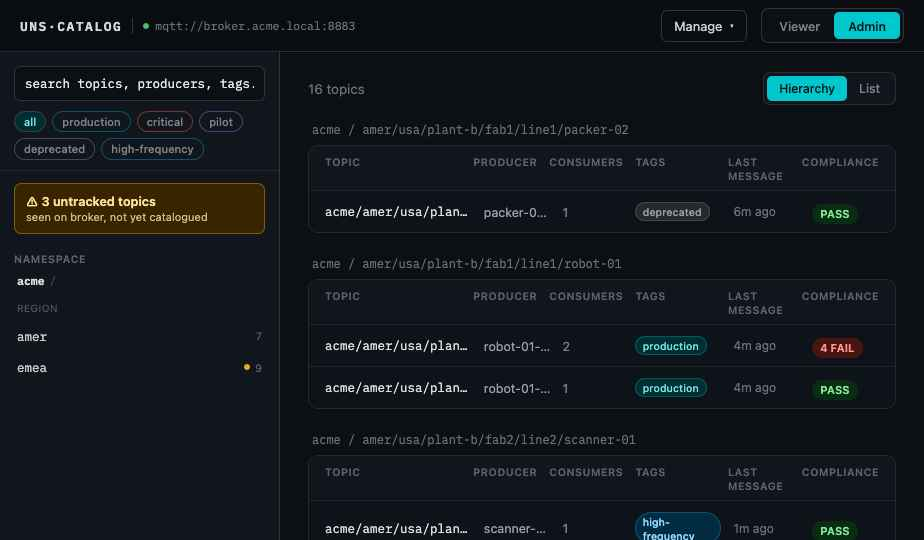
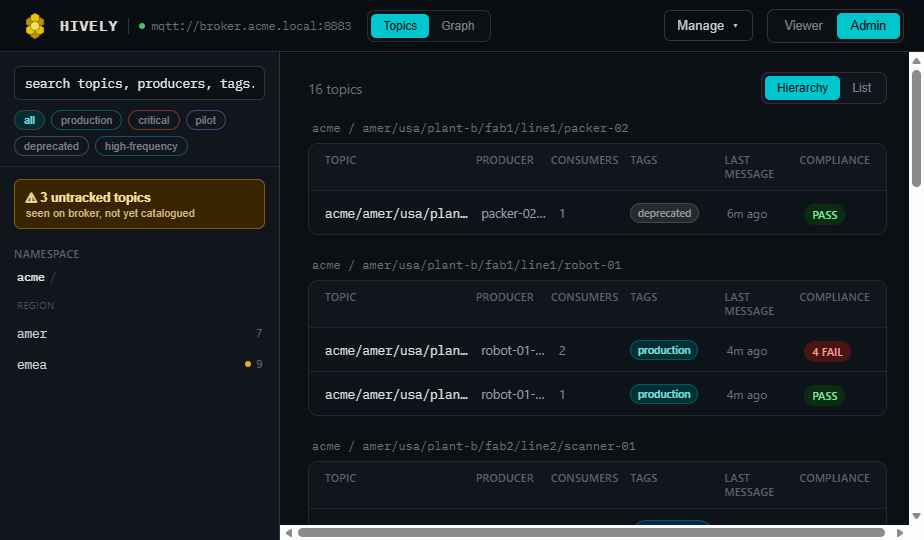
Updated design files

diff --git a/Design/MQTT Data Catalog.dc.html b/Design/MQTT Data Catalog.dc.html
@@ -28,11 +28,24 @@
   <!-- TOP BAR -->
   <div style="height:52px; min-height:52px; display:flex; align-items:center; gap:14px; padding:0 20px; background:oklch(0.155 0.012 254); border-bottom:1px solid oklch(0.3 0.02 254);">
     <div style="display:flex; align-items:center; gap:10px;">
-      <div style="font-family:'IBM Plex Mono',monospace; font-size:13px; font-weight:600; letter-spacing:1.5px; color:oklch(0.88 0.008 254);">UNS·CATALOG</div>
+      <svg viewBox="0 0 100 100" width="30" height="30" style="flex-shrink:0;">
+        <polygon points="65.59,20.00 79.88,28.25 79.88,44.75 65.59,53.00 51.30,44.75 51.30,28.25" fill="oklch(0.68 0.14 85)" stroke="oklch(0.32 0.05 90)" stroke-width="1.2"></polygon>
+        <polygon points="34.41,20.00 48.70,28.25 48.70,44.75 34.41,53.00 20.12,44.75 20.12,28.25" fill="oklch(0.68 0.14 85)" stroke="oklch(0.32 0.05 90)" stroke-width="1.2"></polygon>
+        <polygon points="50.00,60.50 64.29,68.75 64.29,85.25 50.00,93.50 35.71,85.25 35.71,68.75" fill="oklch(0.68 0.14 85)" stroke="oklch(0.32 0.05 90)" stroke-width="1.2"></polygon>
+        <polygon points="50.00,6.50 64.29,14.75 64.29,31.25 50.00,39.50 35.71,31.25 35.71,14.75" fill="oklch(0.83 0.17 95)" stroke="oklch(0.32 0.05 90)" stroke-width="1.2"></polygon>
+        <polygon points="34.41,47.00 48.70,55.25 48.70,71.75 34.41,80.00 20.12,71.75 20.12,55.25" fill="oklch(0.83 0.17 95)" stroke="oklch(0.32 0.05 90)" stroke-width="1.2"></polygon>
+        <polygon points="65.59,47.00 79.88,55.25 79.88,71.75 65.59,80.00 51.30,71.75 51.30,55.25" fill="oklch(0.83 0.17 95)" stroke="oklch(0.32 0.05 90)" stroke-width="1.2"></polygon>
+        <polygon points="50.00,33.50 64.29,41.75 64.29,58.25 50.00,66.50 35.71,58.25 35.71,41.75" fill="oklch(0.9 0.15 98)" stroke="oklch(0.32 0.05 90)" stroke-width="1.2"></polygon>
+      </svg>
+      <div style="font-family:'IBM Plex Mono',monospace; font-size:14.5px; font-weight:600; letter-spacing:1px; color:oklch(0.9 0.01 90);">HIVELY</div>
       <div style="width:1px; height:16px; background:oklch(0.32 0.02 254);"></div>
       <div style="display:flex; align-items:center; gap:6px;">
         <span style="width:6px; height:6px; border-radius:50%; background:oklch(0.72 0.16 150);"></span>
         <span style="font-family:'IBM Plex Mono',monospace; font-size:11.5px; color:oklch(0.55 0.012 254);">mqtt://broker.acme.local:8883</span>
+      </div>
+      <div style="display:flex; background:oklch(0.17 0.014 254); border:1px solid oklch(0.3 0.02 254); border-radius:7px; padding:3px; margin-left:6px;">
+        <button onClick="{{ setViewCatalog }}" style="border:none; cursor:pointer; font-size:12px; font-weight:500; padding:5px 12px; border-radius:5px; background:{{ viewCatalogBg }}; color:{{ viewCatalogColor }};">Topics</button>
+        <button onClick="{{ setViewGraph }}" style="border:none; cursor:pointer; font-size:12px; font-weight:500; padding:5px 12px; border-radius:5px; background:{{ viewGraphBg }}; color:{{ viewGraphColor }};">Graph</button>
       </div>
     </div>
     <div style="flex:1;"></div>
@@ -61,6 +74,7 @@
   </div>
 
   <!-- BODY -->
+  <sc-if value="{{ showCatalogBody }}" hint-placeholder-val="{{ true }}">
   <div style="flex:1; display:flex; min-height:0;">
 
     <!-- SIDEBAR -->
@@ -350,6 +364,73 @@
       </sc-if>
     </div>
   </div>
+  </sc-if>
+
+  <!-- GRAPH VIEW -->
+  <sc-if value="{{ showGraph }}" hint-placeholder-val="{{ false }}">
+    <div style="flex:1; display:flex; flex-direction:column; gap:14px; padding:20px 28px 28px 28px; min-height:0; overflow-y:auto;">
+      <div style="display:flex; align-items:center; gap:10px; flex-wrap:wrap;">
+        <input value="{{ graphCombo.search }}" onChange="{{ graphCombo.onSearchChange }}" placeholder="search a producer, consumer, or topic..." style="flex:1; min-width:280px; background:oklch(0.17 0.014 254); border:1px solid oklch(0.32 0.02 254); border-radius:6px; padding:9px 11px; color:oklch(0.93 0.006 254); font-size:12.5px; font-family:'IBM Plex Mono',monospace; outline:none;" />
+        <sc-if value="{{ graphHasHistory }}">
+          <button onClick="{{ graphBack }}" style="background:none; border:1px solid oklch(0.36 0.02 254); color:oklch(0.8 0.008 254); font-size:12.5px; padding:8px 13px; border-radius:6px; cursor:pointer; white-space:nowrap;">← back</button>
+        </sc-if>
+        <sc-if value="{{ graphHasFocal }}">
+          <button onClick="{{ graphClear }}" style="background:none; border:1px solid oklch(0.36 0.02 254); color:oklch(0.8 0.008 254); font-size:12.5px; padding:8px 13px; border-radius:6px; cursor:pointer; white-space:nowrap;">clear</button>
+        </sc-if>
+      </div>
+
+      <sc-if value="{{ graphCombo.showResults }}">
+        <div style="display:flex; flex-direction:column; gap:2px; max-height:240px; overflow-y:auto; border:1px solid oklch(0.3 0.02 254); border-radius:8px; padding:6px; background:oklch(0.20 0.015 254);">
+          <sc-for list="{{ graphCombo.options }}" as="opt" hint-placeholder-count="4">
+            <button onClick="{{ opt.onClick }}" style="all:unset; box-sizing:border-box; cursor:pointer; display:flex; align-items:center; gap:9px; padding:7px 10px; border-radius:5px;">
+              <span style="width:8px; height:8px; border-radius:50%; background:{{ opt.dotColor }}; flex-shrink:0;"></span>
+              <span style="font-size:12.5px; color:oklch(0.9 0.006 254); font-family:'IBM Plex Mono',monospace; overflow:hidden; text-overflow:ellipsis; white-space:nowrap;">{{ opt.label }}</span>
+              <span style="font-size:10px; color:oklch(0.5 0.012 254); margin-left:auto; text-transform:uppercase; letter-spacing:0.4px; flex-shrink:0;">{{ opt.typeLabel }}</span>
+            </button>
+          </sc-for>
+          <sc-if value="{{ graphCombo.noMatches }}">
+            <div style="font-size:11.5px; color:oklch(0.5 0.012 254); font-style:italic; padding:7px 10px;">no matches</div>
+          </sc-if>
+        </div>
+      </sc-if>
+
+      <sc-if value="{{ graphHasFocal }}" hint-placeholder-val="{{ false }}">
+        <div style="display:flex; align-items:center; gap:8px; font-size:12px; color:oklch(0.55 0.012 254); font-family:'IBM Plex Mono',monospace;">
+          <span style="width:8px; height:8px; border-radius:50%; background:{{ graph.focalDotColor }};"></span>
+          centered on <span style="color:oklch(0.9 0.006 254); font-weight:600;">{{ graph.focalLabel }}</span> ({{ graph.focalType }})
+        </div>
+        <div style="background:oklch(0.20 0.015 254); border:1px solid oklch(0.28 0.018 254); border-radius:12px; padding:10px; flex:1; display:flex; align-items:center; justify-content:center; min-height:0; overflow:auto; position:relative;">
+          <div style="position:absolute; top:12px; right:12px; z-index:2; display:flex; align-items:center; gap:4px; background:oklch(0.17 0.014 254); border:1px solid oklch(0.3 0.02 254); border-radius:7px; padding:3px;">
+            <button onClick="{{ zoomOut }}" style="width:26px; height:26px; border:none; background:none; color:oklch(0.85 0.008 254); font-size:15px; cursor:pointer; border-radius:5px;">−</button>
+            <button onClick="{{ zoomReset }}" style="min-width:42px; border:none; background:none; color:oklch(0.6 0.012 254); font-size:11px; font-family:'IBM Plex Mono',monospace; cursor:pointer; padding:4px 2px; border-radius:5px;">{{ graphZoomPct }}</button>
+            <button onClick="{{ zoomIn }}" style="width:26px; height:26px; border:none; background:none; color:oklch(0.85 0.008 254); font-size:15px; cursor:pointer; border-radius:5px;">+</button>
+          </div>
+          <div style="position:relative; height:100%; width:auto; max-width:100%; aspect-ratio:900/560; transform:scale({{ graphZoom }}); transform-origin:center center; flex-shrink:0;">
+            <svg viewBox="0 0 900 560" style="position:absolute; inset:0; width:100%; height:100%; display:block;">
+              <sc-for list="{{ graph.edges }}" as="edge" hint-placeholder-count="4">
+                <line x1="{{ edge.x1 }}" y1="{{ edge.y1 }}" x2="{{ edge.x2 }}" y2="{{ edge.y2 }}" stroke="{{ edge.stroke }}" stroke-width="1.4" stroke-opacity="{{ edge.opacity }}"></line>
+              </sc-for>
+              <sc-for list="{{ graph.nodes }}" as="node" hint-placeholder-count="6">
+                <circle onClick="{{ node.onClick }}" style="cursor:{{ node.cursor }};" cx="{{ node.x }}" cy="{{ node.y }}" r="{{ node.r }}" fill="{{ node.fill }}" stroke="{{ node.stroke }}" stroke-width="{{ node.strokeWidth }}"></circle>
+              </sc-for>
+            </svg>
+            <sc-for list="{{ graph.nodes }}" as="node" hint-placeholder-count="6">
+              <div title="{{ node.fullLabel }}" onClick="{{ node.onClick }}" style="position:absolute; left:{{ node.xPct }}; top:{{ node.labelYPct }}; transform:{{ node.labelTransform }}; font-family:'IBM Plex Mono',monospace; font-size:{{ node.fontSize }}px; color:{{ node.textColor }}; cursor:{{ node.cursor }}; white-space:nowrap; pointer-events:auto;">{{ node.shortLabel }}</div>
+            </sc-for>
+          </div>
+        </div>
+        <div style="display:flex; gap:18px; font-size:11.5px; color:oklch(0.55 0.012 254);">
+          <div style="display:flex; align-items:center; gap:6px;"><span style="width:9px; height:9px; border-radius:50%; background:oklch(0.78 0.15 200);"></span>producer</div>
+          <div style="display:flex; align-items:center; gap:6px;"><span style="width:9px; height:9px; border-radius:50%; background:oklch(0.78 0.14 80);"></span>topic</div>
+          <div style="display:flex; align-items:center; gap:6px;"><span style="width:9px; height:9px; border-radius:50%; background:oklch(0.75 0.17 330);"></span>consumer</div>
+          <div style="margin-left:auto; color:oklch(0.48 0.012 254);">click any node to re-center the graph on it</div>
+        </div>
+      </sc-if>
+      <sc-if value="{{ graphNoFocal }}" hint-placeholder-val="{{ true }}">
+        <div style="flex:1; display:flex; align-items:center; justify-content:center; color:oklch(0.5 0.012 254); font-size:13.5px; text-align:center;">Search for a producer, consumer, or topic above to see its connections.</div>
+      </sc-if>
+    </div>
+  </sc-if>
 
   <!-- CONFIGURE MODAL -->
   <sc-if value="{{ configureOpen }}">
@@ -928,8 +1009,14 @@ class Component extends DCLogic {
     pickerSearch: {
       configureProducer: '', configureSchema: '', configureConsumer: '',
       schemaAssign: '', producerAssign: '', consumerAssign: '', ruleProducer: '',
+      graphFocal: '',
     },
     folderPath: [],
+    view: 'catalog', // 'catalog' | 'graph'
+    graphFocalType: null, // 'producer' | 'consumer' | 'topic'
+    graphFocalId: null,
+    graphHistory: [],
+    graphZoom: 1,
     topics: RAW_TOPICS.map(t => ({ ...t, id: t.seg.join('/') })),
   };
 
@@ -1040,8 +1127,114 @@ class Component extends DCLogic {
     };
   }
 
+  graphNodeStyle(type) {
+    if (type === 'producer') return { fill: 'oklch(0.28 0.09 200)', stroke: 'oklch(0.78 0.15 200)', textColor: 'oklch(0.88 0.04 200)' };
+    if (type === 'consumer') return { fill: 'oklch(0.28 0.1 330)', stroke: 'oklch(0.75 0.17 330)', textColor: 'oklch(0.88 0.05 330)' };
+    return { fill: 'oklch(0.32 0.09 80)', stroke: 'oklch(0.78 0.14 80)', textColor: 'oklch(0.9 0.03 80)' };
+  }
+
+  graphEntityLabel(type, id) {
+    if (type === 'producer') return this.producerName(id) || id || 'unknown';
+    if (type === 'consumer') { const c = this.state.consumers.find(x => x.id === id); return c ? c.name : id; }
+    const t = this.state.topics.find(x => x.id === id);
+    return t ? t.seg[t.seg.length - 1] : id;
+  }
+
+  truncateLabel(s, n) {
+    if (!s) return s;
+    return s.length > n ? s.slice(0, n - 1) + '…' : s;
+  }
+
+  setGraphFocal(type, id) {
+    this.setState(s => {
+      const hist = (s.graphFocalType && s.graphFocalId && (s.graphFocalType !== type || s.graphFocalId !== id))
+        ? [...s.graphHistory, { type: s.graphFocalType, id: s.graphFocalId }] : s.graphHistory;
+      return { graphFocalType: type, graphFocalId: id, graphHistory: hist, pickerSearch: { ...s.pickerSearch, graphFocal: '' } };
+    });
+  }
+
+  graphBack() {
+    this.setState(s => {
+      const hist = [...s.graphHistory];
+      const prev = hist.pop();
+      return prev ? { graphFocalType: prev.type, graphFocalId: prev.id, graphHistory: hist } : { graphFocalType: null, graphFocalId: null, graphHistory: [] };
+    });
+  }
+
+  zoomGraph(delta) {
+    this.setState(s => ({ graphZoom: Math.max(0.5, Math.min(3, +(s.graphZoom + delta).toFixed(2))) }));
+  }
+
+  computeGraph() {
+    const { graphFocalType: type, graphFocalId: id, topics } = this.state;
+    if (!type || !id) return null;
+    const W = 900, H = 560, cx = W / 2, cy = H / 2, R1 = 165, R2 = 255;
+    const nodes = [];
+    const edges = [];
+    const mk = (key, x, y, r, nodeType, label, onClick, isFocal) => {
+      const st = this.graphNodeStyle(nodeType);
+      const labelAbove = y > cy;
+      const labelY = labelAbove ? y - r - 15 : y + r + 15;
+      return {
+        key, x, y, r, fill: st.fill, stroke: st.stroke, strokeWidth: isFocal ? 2.5 : 1.5,
+        textColor: st.textColor, fontSize: isFocal ? 13 : 11.5,
+        label, fullLabel: label, shortLabel: this.truncateLabel(label, isFocal ? 20 : 14),
+        labelY, labelTransform: labelAbove ? 'translate(-50%, -100%)' : 'translate(-50%, 0)',
+        onClick: onClick || null, cursor: onClick ? 'pointer' : 'default',
+        xPct: (x / W * 100) + '%', labelYPct: (labelY / H * 100) + '%',
+      };
+    };
+
+    nodes.push(mk('focal', cx, cy, 28, type, this.graphEntityLabel(type, id), null, true));
+
+    if (type === 'topic') {
+      const t = topics.find(x => x.id === id);
+      if (!t) return null;
+      if (t.producer) {
+        const x = cx - R1, y = cy;
+        nodes.push(mk('p-' + t.producer, x, y, 20, 'producer', this.graphEntityLabel('producer', t.producer), () => this.setGraphFocal('producer', t.producer)));
+        edges.push({ x1: cx, y1: cy, x2: x, y2: y, stroke: this.graphNodeStyle('producer').stroke, opacity: 0.7 });
+      }
+      const n = t.consumers.length;
+      t.consumers.forEach((cid, i) => {
+        const spread = n === 1 ? 0 : Math.min(2.1, 0.55 * n);
+        const ang = n === 1 ? 0 : (-spread / 2 + spread * i / (n - 1));
+        const x = cx + R1 * Math.cos(ang), y = cy + R1 * Math.sin(ang);
+        nodes.push(mk('c-' + cid, x, y, 18, 'consumer', this.graphEntityLabel('consumer', cid), () => this.setGraphFocal('consumer', cid)));
+        edges.push({ x1: cx, y1: cy, x2: x, y2: y, stroke: this.graphNodeStyle('consumer').stroke, opacity: 0.7 });
+      });
+    } else {
+      const relTopics = topics.filter(t => type === 'producer' ? t.producer === id : t.consumers.includes(id));
+      const n = relTopics.length;
+      const farMap = {};
+      relTopics.forEach((t, i) => {
+        const ang = n === 0 ? 0 : (2 * Math.PI * i / n) - Math.PI / 2;
+        const x = cx + R1 * Math.cos(ang), y = cy + R1 * Math.sin(ang);
+        nodes.push(mk('t-' + t.id, x, y, 15, 'topic', t.seg[t.seg.length - 1], () => this.setGraphFocal('topic', t.id)));
+        edges.push({ x1: cx, y1: cy, x2: x, y2: y, stroke: this.graphNodeStyle('topic').stroke, opacity: 0.6 });
+
+        const farType = type === 'producer' ? 'consumer' : 'producer';
+        const farIds = type === 'producer' ? t.consumers : (t.producer ? [t.producer] : []);
+        farIds.forEach(fid => {
+          const key = farType + '-' + fid;
+          (farMap[key] = farMap[key] || { id: fid, type: farType, parents: [] }).parents.push({ x, y });
+        });
+      });
+      const farNodes = Object.values(farMap);
+      const m = farNodes.length;
+      farNodes.forEach((f, i) => {
+        const ang = m === 0 ? 0 : (2 * Math.PI * i / m) - Math.PI / 2;
+        const x = cx + R2 * Math.cos(ang), y = cy + R2 * Math.sin(ang);
+        nodes.push(mk(f.type + '2-' + f.id, x, y, 15, f.type, this.graphEntityLabel(f.type, f.id), () => this.setGraphFocal(f.type, f.id)));
+        f.parents.forEach(p => edges.push({ x1: p.x, y1: p.y, x2: x, y2: y, stroke: this.graphNodeStyle(f.type).stroke, opacity: 0.35 }));
+      });
+    }
+
+    return { nodes, edges, focalType: type, focalLabel: this.graphEntityLabel(type, id), focalDotColor: this.graphNodeStyle(type).stroke };
+  }
+
   renderVals() {
-    const { role, groupBy, search, selectedId, topics, tags, schemas, rules, tagFilter, folderPath, configureId, configureForm, manageTagsOpen, newTagLabel, newTagHue, tagPickerOpen, schemaModalId, schemaModalSelectedId, manageSchemasOpen, editingSchemaId, newSchemaName, newSchemaDefText, newSchemaDefError, schemaSearch, manageRulesOpen, editingRuleId, newRulePattern, newRuleProducerId, newRuleTagIds, producers, consumers, manageProducersOpen, producerSearch, editingProducerId, newProducerName, newProducerDescription, manageConsumersOpen, consumerSearch, editingConsumerId, newConsumerName, newConsumerDescription, producerModalId, producerModalSelectedId, consumerPickerOpen, manageMenuOpen } = this.state;
+    const { role, groupBy, search, selectedId, topics, tags, schemas, rules, tagFilter, folderPath, configureId, configureForm, manageTagsOpen, newTagLabel, newTagHue, tagPickerOpen, schemaModalId, schemaModalSelectedId, manageSchemasOpen, editingSchemaId, newSchemaName, newSchemaDefText, newSchemaDefError, schemaSearch, manageRulesOpen, editingRuleId, newRulePattern, newRuleProducerId, newRuleTagIds, producers, consumers, manageProducersOpen, producerSearch, editingProducerId, newProducerName, newProducerDescription, manageConsumersOpen, consumerSearch, editingConsumerId, newConsumerName, newConsumerDescription, producerModalId, producerModalSelectedId, consumerPickerOpen, manageMenuOpen, view, graphFocalType, graphFocalId, graphHistory, graphZoom } = this.state;
     const isAdmin = role === 'admin';
     const tagsById = {}; tags.forEach(t => tagsById[t.id] = t);
 
@@ -1266,6 +1459,20 @@ class Component extends DCLogic {
     })) : [];
     const schemaAssignCombo = this.comboVM('schemaAssign', schemaAssignOptionsRaw);
 
+    // graph view
+    const graphEntityOptions = [
+      ...producers.map(p => ({ type: 'producer', id: p.id, label: p.name, typeLabel: 'producer' })),
+      ...consumers.map(c => ({ type: 'consumer', id: c.id, label: c.name, typeLabel: 'consumer' })),
+      ...topics.map(t => ({ type: 'topic', id: t.id, label: t.seg.join('/'), typeLabel: 'topic' })),
+    ].map(o => ({
+      ...o,
+      dotColor: this.graphNodeStyle(o.type).stroke,
+      onClick: () => this.setGraphFocal(o.type, o.id),
+    }));
+    const graphComboRaw = this.comboVM('graphFocal', graphEntityOptions);
+    const graphCombo = { ...graphComboRaw, showResults: graphComboRaw.search.trim().length > 0 };
+    const graph = this.computeGraph();
+
     const allTagsList = tags.map(t => {
       const c = tagColor(t.hue);
       return { label: t.label, ...c, onDelete: () => this.setState(s => ({ tags: s.tags.filter(x => x.id !== t.id), topics: s.topics.map(tp => ({ ...tp, tags: tp.tags.filter(x => x !== t.id) })) })) };
@@ -1281,6 +1488,19 @@ class Component extends DCLogic {
       viewerBtnBg: !isAdmin ? 'oklch(0.75 0.13 200)' : 'transparent', viewerBtnColor: !isAdmin ? 'oklch(0.15 0.02 200)' : 'oklch(0.6 0.012 254)',
       adminBtnBg: isAdmin ? 'oklch(0.75 0.13 200)' : 'transparent', adminBtnColor: isAdmin ? 'oklch(0.15 0.02 200)' : 'oklch(0.6 0.012 254)',
       setRoleViewer: () => this.setState({ role: 'viewer' }), setRoleAdmin: () => this.setState({ role: 'admin' }),
+
+      view, showCatalogBody: view === 'catalog', showGraph: view === 'graph',
+      setViewCatalog: () => this.setState({ view: 'catalog' }), setViewGraph: () => this.setState({ view: 'graph' }),
+      viewCatalogBg: view === 'catalog' ? 'oklch(0.75 0.13 200)' : 'transparent', viewCatalogColor: view === 'catalog' ? 'oklch(0.15 0.02 200)' : 'oklch(0.6 0.012 254)',
+      viewGraphBg: view === 'graph' ? 'oklch(0.75 0.13 200)' : 'transparent', viewGraphColor: view === 'graph' ? 'oklch(0.15 0.02 200)' : 'oklch(0.6 0.012 254)',
+      graphCombo, graph,
+      graphHasFocal: !!graph, graphNoFocal: !graph,
+      graphHasHistory: graphHistory.length > 0,
+      graphBack: () => this.graphBack(),
+      graphClear: () => this.setState({ graphFocalType: null, graphFocalId: null, graphHistory: [] }),
+      graphZoom, graphZoomPct: Math.round(graphZoom * 100) + '%',
+      zoomIn: () => this.zoomGraph(0.25), zoomOut: () => this.zoomGraph(-0.25),
+      zoomReset: () => this.setState({ graphZoom: 1 }),
       openManageTags: () => this.setState({ manageTagsOpen: true, manageMenuOpen: false }),
 
       search, onSearchChange: e => this.setState({ search: e.target.value }),
